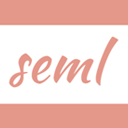
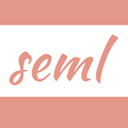
v0.0.3

diff --git a/README.md b/README.md
@@ -2,47 +2,68 @@
 
 Seml 是为 Plants vs. Zombies Survival Endless 定制的标记语言, 可用于描述波长, 用炮, 用垫等信息.
 
-## 语法
+## 简单示例
+
+描述 [NE.中开12炮](https:#www.bilibili.com/video/BV1Ty4y1u7uC/) 的半个循环节:
+```Tcl
+# NE.中开12炮 的减速波与加速波(略有简化)
+w1 1 1755           
+C 824~1280 1'2'45 9
+PP 1555 24 8.6
+DD +220 14 7.4
+C 1696+207 1'2'45 9
+
+w2 746
+PP 546 14 8.5
+dd +256 14 2.9875
+C 692~728 1'2'45 9
+```
+
+## 导出至 JSON
+
+使用 `Ctrl + Shift + P` 呼出命令菜单, 然后键入 `Compile Seml File to JSON`, 即可将 `Seml` 文件导出至 `JSON`.
+
+
+## 语法一览
 
 ### 设定波长
 
-```cpp
+```python
 w1 1 300
 ```
 
 设定 wave1 于 1 生效冰, 波长为 300. 可提供多个用冰时机.
 
 ### 用炮
-```cpp
-P 318 2 9     // 318cs 生效炸 (2,9) 的炮
-PP 318 25 9   // 318cs 生效炸 (2,9), (5,9) 的炮
-D +220 1 7    // 延迟 220cs 生效
+```python
+P 318 2 9     # 318cs 生效炸 (2,9) 的炮
+PP 318 25 9   # 318cs 生效炸 (2,9), (5,9) 的炮
+D +220 1 7    # 延迟 220cs 生效
 ```
 
 使用一门或两门炮. 可用 B/D 代替 P 传递更精确的语义. 大小写均可.
 
 ### 用垫
-```cpp
-C 446 1256 9     // 446cs 于 1-9, 2-9, 5-9, 6-9 放垫
-C 446+134 ...    // 134cs 后铲
-C 446~601 ...    // 601cs 铲
-C +220+134 ...   // 延迟 220cs 种植, 种植后 134cs 铲
+```python
+C 446 1256 9     # 446cs 于 1-9, 2-9, 5-9, 6-9 放垫
+C 446+134 ...    # 134cs 后铲
+C 446~601 ...    # 601cs 铲
+C +220+134 ...   # 延迟 220cs 种植, 种植后 134cs 铲
 ```
 
 使用垫材. 大小写均可.
 
-<br>
-
-```cpp
-C 446 1'2'56 9     // 于 1-9, 2-9 垫小喷/阳光菇, 于 5-9, 6-9 放普通垫材
+```Tcl
+# 于 1-9, 2-9 垫小喷/阳光菇, 于 5-9, 6-9 放普通垫材
+C 446 1'2'56 9
 ```
 
 在行数后加 `'` 表示用小喷 / 阳光菇.
 
-<br>
-
-```cpp
-C 446 1256 9 choose:3 wave:12 // 1,2,5,6 路中选择 3 个红眼 x 最小的行垫, 只考虑 w1,w2 的红眼
+```python
+# 1,2,5,6 路中选择 3 个红眼 x 最小的行垫
+# 只考虑 w1,w2 的红眼
+C 446 1256 9 choose:3 wave:12
 ```
 
 智能用垫. `wave` 可省略, 默认为考虑所有红眼.

diff --git a/CHANGELOG.md b/CHANGELOG.md
@@ -1,5 +1,12 @@
 ## 版本日志
 
+### 0.0.3 - 2023/10/03
+
+- 完善 README
+    - 改进代码块排版
+    - 增加简单示例与导出至 JSON 的说明
+- 优化图标样式
+
 ### 0.0.2 - 2023/10/03
 
 - 增加图标
